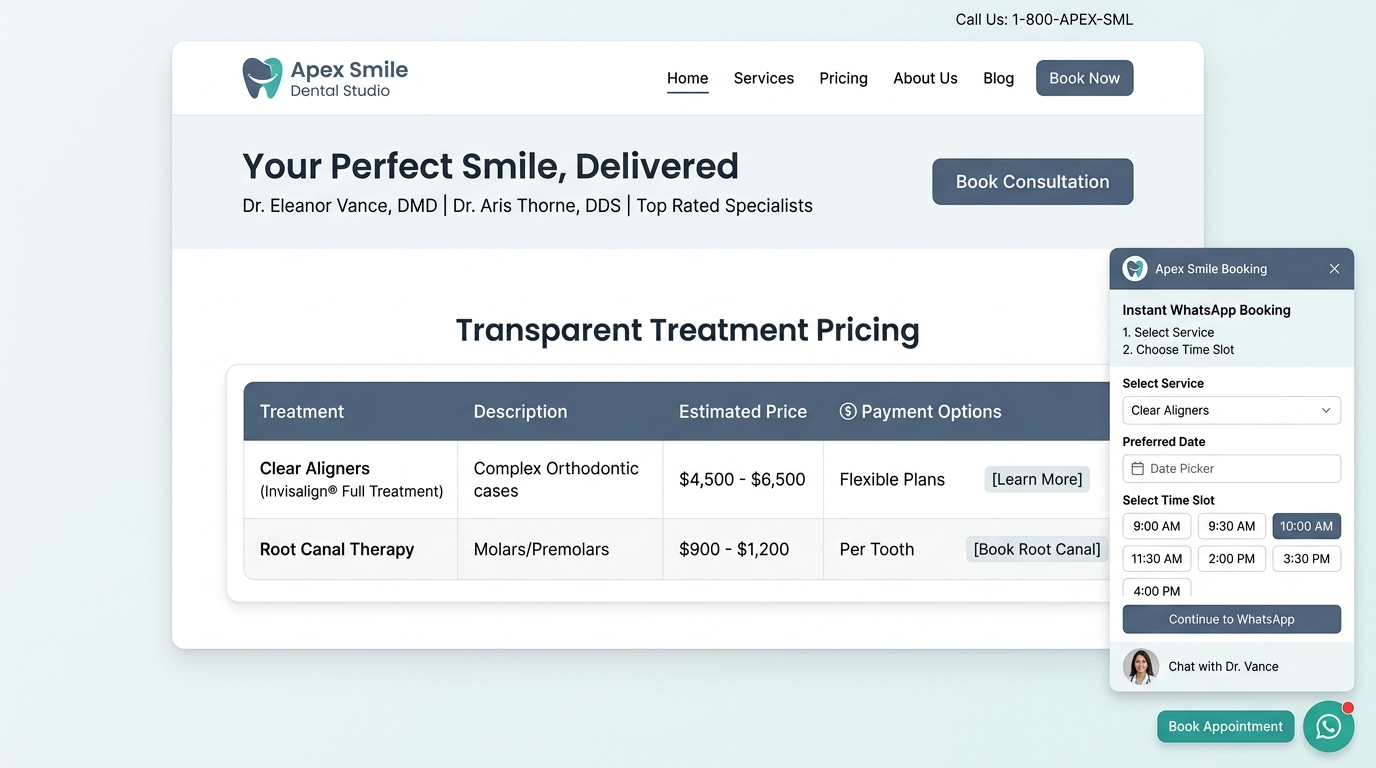
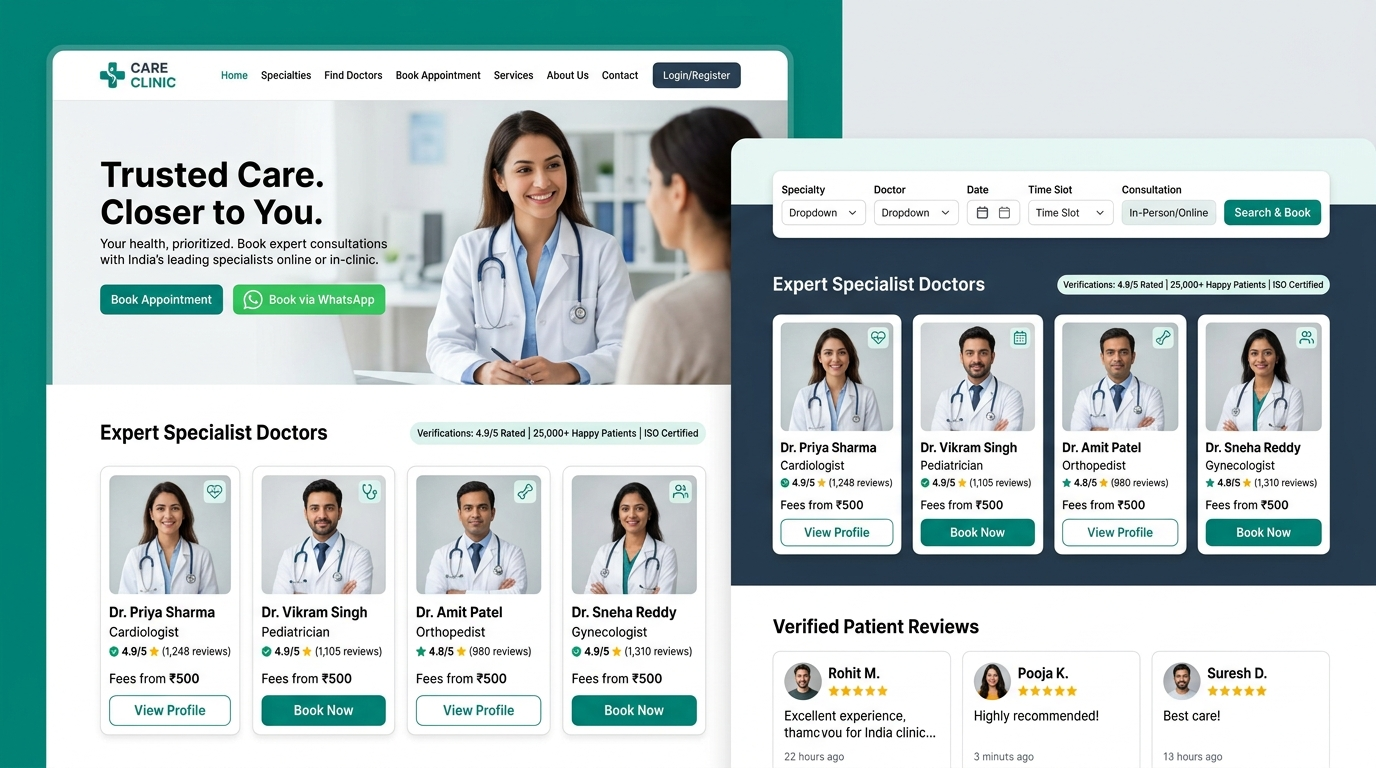
feat: update Care Clinic image and set 2-second auto-slide timer across all sliders

diff --git a/components/sections/LiveDemosSection.tsx b/components/sections/LiveDemosSection.tsx
@@ -15,7 +15,6 @@ import {
   MapPin,
   ExternalLink,
   Lock,
-  Globe,
 } from "lucide-react";
 import { cn } from "@/lib/utils";
 
@@ -30,7 +29,7 @@ export const LiveDemosSection: React.FC = () => {
       category: "Healthcare & Clinic",
       title: "CARE CLINIC",
       icon: <Activity className="w-4 h-4 text-blue-500" />,
-      imageSrc: "/images/projects/dental-clinic.jpg",
+      imageSrc: "/images/projects/care-clinic.jpg",
       location: "Indore, MP",
       displayUrl: "careclinic-indore.vercel.app",
       liveDemoUrl: "https://client-wheat-seven-38.vercel.app/",
@@ -84,13 +83,13 @@ export const LiveDemosSection: React.FC = () => {
     },
   ];
 
-  // Auto-sliding 5s timer
+  // Auto-sliding 2-second timer (smooth rotation)
   useEffect(() => {
     if (isPaused) return;
 
     timerRef.current = setInterval(() => {
       setActiveIndex((prev) => (prev === projects.length - 1 ? 0 : prev + 1));
-    }, 5000);
+    }, 2000);
 
     return () => {
       if (timerRef.current) clearInterval(timerRef.current);
@@ -120,7 +119,7 @@ export const LiveDemosSection: React.FC = () => {
               <Sparkles className="w-3.5 h-3.5 text-brand-accent" />
               <span>Live Production Demos</span>
               <span className="w-1.5 h-1.5 rounded-full bg-teal-600 animate-pulse ml-1" />
-              <span className="text-[10px] text-teal-700 font-mono font-bold">Auto-Slide</span>
+              <span className="text-[10px] text-teal-700 font-mono font-bold">2s Auto-Slide</span>
             </div>
             <h2 className="text-2xl sm:text-4xl font-extrabold text-slate-900 tracking-tight">
               Work that makes businesses look better — and work better.
@@ -173,12 +172,12 @@ export const LiveDemosSection: React.FC = () => {
 
         {/* Slider Card Container */}
         <div className="bg-white rounded-3xl border border-slate-200/90 shadow-card overflow-hidden">
-          {/* Animated Auto-Slide Progress Bar */}
+          {/* Animated 2s Auto-Slide Progress Bar */}
           <div className="w-full h-1 bg-slate-100 relative overflow-hidden">
             <div
               key={activeIndex}
               className={cn(
-                "h-full bg-brand-accent transition-all duration-[5000ms] ease-linear",
+                "h-full bg-brand-accent transition-all duration-[2000ms] ease-linear",
                 isPaused ? "opacity-40" : "w-full"
               )}
               style={{ width: isPaused ? "100%" : undefined }}
@@ -187,7 +186,7 @@ export const LiveDemosSection: React.FC = () => {
 
           {/* Continuous Sliding Horizontal Track */}
           <div
-            className="flex transition-transform duration-700 ease-in-out"
+            className="flex transition-transform duration-500 ease-in-out"
             style={{ transform: `translateX(-${activeIndex * 100}%)` }}
           >
             {projects.map((project) => (
@@ -332,7 +331,7 @@ export const LiveDemosSection: React.FC = () => {
             ))}
           </div>
           <span className="text-[11px] text-slate-400 font-mono">
-            {isPaused ? "(Paused on hover)" : "(Auto-sliding every 5s)"}
+            {isPaused ? "(Paused on hover)" : "(Auto-sliding every 2s)"}
           </span>
         </div>
       </Container>

diff --git a/components/sections/HeroSection.tsx b/components/sections/HeroSection.tsx
@@ -43,7 +43,7 @@ export const HeroSection: React.FC = () => {
       icon: <Activity className="w-3.5 h-3.5" />,
       title: "CARE CLINIC — Healthcare Portal",
       displayUrl: "careclinic-indore.vercel.app",
-      imageSrc: "/images/projects/dental-clinic.jpg",
+      imageSrc: "/images/projects/care-clinic.jpg",
       highlight: "-68% No-Shows",
       summary: "Transparent doctor consultation fees with 24/7 automated WhatsApp slot booking.",
       liveUrl: "https://client-wheat-seven-38.vercel.app/",
@@ -72,13 +72,13 @@ export const HeroSection: React.FC = () => {
     },
   ];
 
-  // Auto-sliding 5s timer
+  // Auto-sliding 2-second timer
   useEffect(() => {
     if (isPaused) return;
 
     timerRef.current = setInterval(() => {
       setActiveTab((prev) => (prev === previewTabs.length - 1 ? 0 : prev + 1));
-    }, 5000);
+    }, 2000);
 
     return () => {
       if (timerRef.current) clearInterval(timerRef.current);
@@ -173,7 +173,7 @@ export const HeroSection: React.FC = () => {
                 </div>
 
                 <span className="text-[10px] font-mono text-teal-400 hidden sm:inline shrink-0 pr-1">
-                  {isPaused ? "Paused" : "Auto"}
+                  {isPaused ? "Paused" : "2s Auto"}
                 </span>
               </div>
 
@@ -182,7 +182,7 @@ export const HeroSection: React.FC = () => {
                 <div
                   key={activeTab}
                   className={cn(
-                    "h-full bg-teal-400 transition-all duration-[5000ms] ease-linear",
+                    "h-full bg-teal-400 transition-all duration-[2000ms] ease-linear",
                     isPaused ? "opacity-40" : "w-full"
                   )}
                   style={{ width: isPaused ? "100%" : undefined }}
@@ -191,7 +191,7 @@ export const HeroSection: React.FC = () => {
 
               {/* Continuous Horizontal Slider Track with Clean Browser Chrome */}
               <div
-                className="flex transition-transform duration-700 ease-in-out"
+                className="flex transition-transform duration-500 ease-in-out"
                 style={{ transform: `translateX(-${activeTab * 100}%)` }}
               >
                 {previewTabs.map((tab) => (

diff --git a/components/sections/ServicesGrid.tsx b/components/sections/ServicesGrid.tsx
@@ -117,13 +117,13 @@ export const ServicesGrid: React.FC = () => {
     },
   ];
 
-  // Auto-sliding 5s timer
+  // Auto-sliding 2-second timer
   useEffect(() => {
     if (isPaused) return;
 
     timerRef.current = setInterval(() => {
       setActiveTab((prev) => (prev === services.length - 1 ? 0 : prev + 1));
-    }, 5000);
+    }, 2000);
 
     return () => {
       if (timerRef.current) clearInterval(timerRef.current);
@@ -216,7 +216,7 @@ export const ServicesGrid: React.FC = () => {
             <div
               key={activeTab}
               className={cn(
-                "h-full bg-brand-accent transition-all duration-[5000ms] ease-linear",
+                "h-full bg-brand-accent transition-all duration-[2000ms] ease-linear",
                 isPaused ? "opacity-40" : "w-full"
               )}
               style={{ width: isPaused ? "100%" : undefined }}
@@ -224,7 +224,7 @@ export const ServicesGrid: React.FC = () => {
           </div>
 
           <div
-            className="flex transition-transform duration-700 ease-in-out"
+            className="flex transition-transform duration-500 ease-in-out"
             style={{ transform: `translateX(-${activeTab * 100}%)` }}
           >
             {services.map((service) => (
